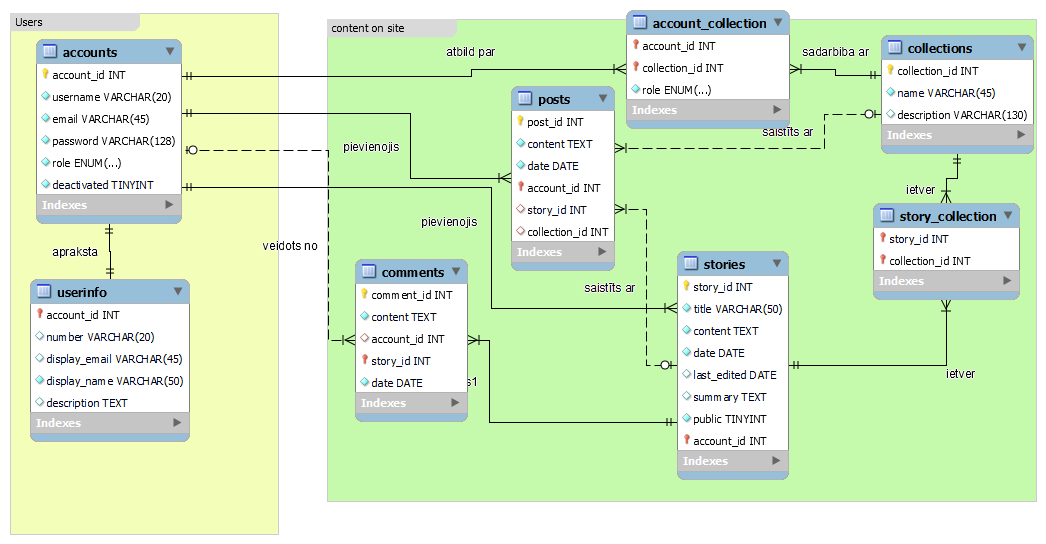
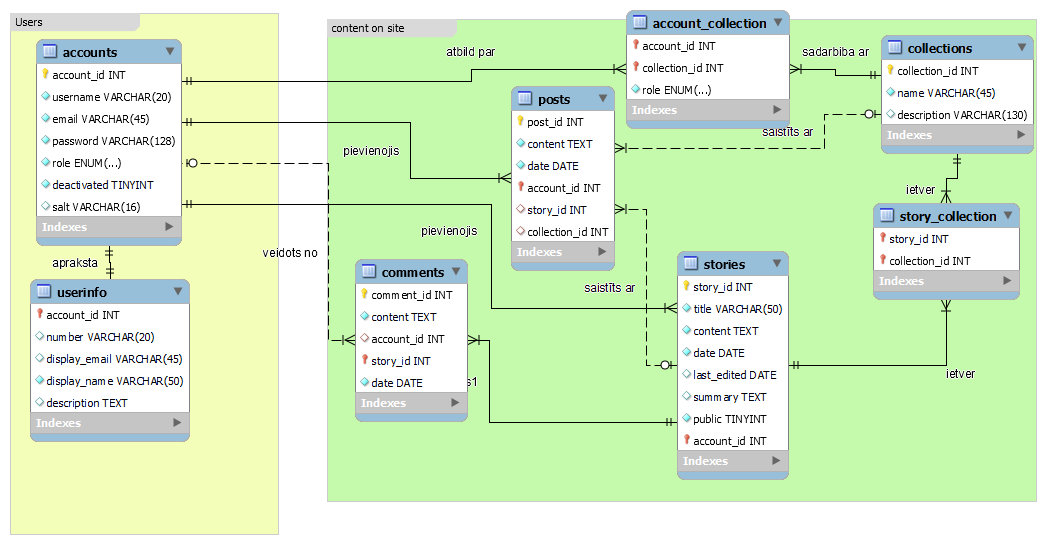
Added password encryption

diff --git a/backend-api/services/accounts.js b/backend-api/services/accounts.js
@@ -1,6 +1,7 @@
 const db = require("./db");
 const helper = require("../helper");
 const config = require("../config");
+const { encryptPassword, generateSalt } = require("../encrypt");
 
 async function getMultiple(page = 1) {
 	const offset = helper.getOffset(page, config.listPerPage);
@@ -27,21 +28,24 @@ async function getMultiple(page = 1) {
 //("${accounts.username}", "${accounts.email}", "${accounts.password}");
 
 async function create(accounts) {
-	console.log("first create phase " + accounts.displayname);
+	const salt = generateSalt();
+	const hashedPassword = encryptPassword(accounts.password, salt);
+	console.log("first create phase " + accounts.password + " " + hashedPassword);
 	const account = await db.query(
 		`INSERT INTO accounts 
-      (username, email, password) 
+      (username, email, password, salt) 
       VALUES 
-      (?, ?, ?);`,
-		[accounts.username, accounts.email, accounts.password]
+      (?, ?, ?, ?);`,
+		[accounts.username, accounts.email, hashedPassword, salt]
 		//  parameterise your query ^^^
 	);
 
 	let message = "Error in creating account";
 
 	if (account.affectedRows) {
-		grabId(accounts);
+		message = grabId(accounts);
 	}
+	return message;
 }
 async function grabId(accounts) {
 	const createdid = await db.query(
@@ -50,11 +54,12 @@ async function grabId(accounts) {
 	);
 
 	const userid = createdid[0];
-
+	let message = "Error in creating account";
 	console.log(userid.account_id + " is the created id");
 	if (userid.account_id) {
-		createUser(userid.account_id, accounts);
+		message = createUser(userid.account_id, accounts);
 	}
+	return message;
 }
 
 async function createUser(id, accounts) {
@@ -67,7 +72,7 @@ async function createUser(id, accounts) {
 	if (user.affectedRows) {
 		message = "Account created successfully";
 	}
-	return { message };
+	return message;
 }
 
 async function update(id, accounts) {

diff --git a/backend-api/encrypt.js b/backend-api/encrypt.js
@@ -1,0 +1,28 @@
+const crypto = require("crypto");
+
+function generateSalt(length = 16) {
+	return crypto
+		.randomBytes(Math.ceil(length / 2))
+		.toString("hex")
+		.slice(0, length);
+}
+
+function encryptPassword(password, salt) {
+	const hash = crypto.createHmac("sha256", salt).update(password).digest("hex");
+	return hash;
+}
+
+function comparePasswords(inputPassword, storedPassword, salt) {
+	const inputPasswordHash = crypto
+		.createHmac("sha256", salt)
+		.update(inputPassword)
+		.digest("hex");
+
+	return inputPasswordHash === storedPassword;
+}
+
+module.exports = {
+	encryptPassword,
+	comparePasswords,
+	generateSalt,
+};

diff --git a/backend-api/services/posts.js b/backend-api/services/posts.js
@@ -1,6 +1,7 @@
 const db = require("./db");
 const helper = require("../helper");
 const config = require("../config");
+const { comparePasswords } = require("../encrypt");
 
 async function getMultiple(page = 1) {
 	const offset = helper.getOffset(page, config.listPerPage);

diff --git a/backend-api/index.js b/backend-api/index.js
@@ -29,3 +29,9 @@ app.use((err, req, res, next) => {
 app.listen(port, () => {
 	console.log(`server started on port ${port}`);
 });
+let crypto;
+try {
+	crypto = require("node:crypto");
+} catch (err) {
+	console.error("crypto support is disabled!");
+}
